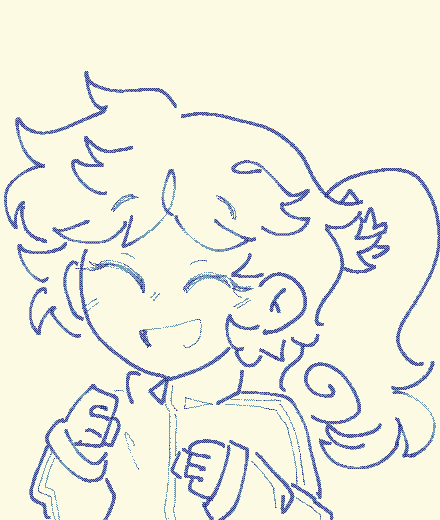
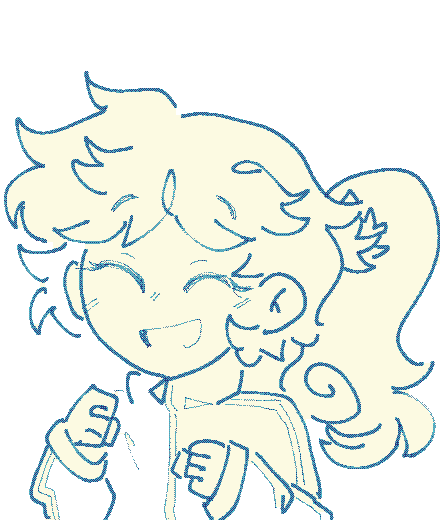
Caja de diálogo con textura, bustos que caen en otro dibujo del mismo personaje

diff --git a/js/motor/dialogo.js b/js/motor/dialogo.js
@@ -24,14 +24,18 @@ const Dialogo = {
     const p = PERSONAJES[id];
     if (!p || p.sinBusto || Motor.estadoEscena.cuadro) { Dialogo.ocultarBusto(); return; }
     const em = emocion || 'neutral';
-    let ruta = (p.bustos && p.bustos[em]) || `assets/img/bustos/${id}_${em}.png`;
     const b = Dialogo.el.busto;
     b.hidden = false;
     b.classList.toggle('derecha', p.lado === 'derecha' || p.lado === 'der'); // ver `lado` en personajes.js
-    let ok = await U.imagenExiste(ruta);
-    if (!ok && em !== 'neutral') { // si falta esa emoción, usa el busto neutral
-      const neutral = (p.bustos && p.bustos.neutral) || `assets/img/bustos/${id}_neutral.png`;
-      if (await U.imagenExiste(neutral)) { ruta = neutral; ok = true; }
+    // Mientras falten dibujos: si no está esa emoción se usa otra del mismo personaje,
+    // antes de caer al bloque de color. El orden de abajo es el de preferencia.
+    const dondeEsta = (e) => (p.bustos && p.bustos[e]) || `assets/img/bustos/${id}_${e}.png`;
+    const intentos = [em, 'neutral', p.bustoRespaldo, ...Object.keys(p.bustos || {}), 'feliz', 'seria', 'curioso'];
+    let ruta = dondeEsta(em), ok = false;
+    for (const e of intentos) {
+      if (!e) continue;
+      const r = dondeEsta(e);
+      if (await U.imagenExiste(r)) { ruta = r; ok = true; break; }
     }
     if (ok) { b.style.backgroundImage = `url("${ruta}")`; b.style.backgroundColor = 'transparent'; b.querySelector('.busto-etiqueta').textContent = ''; }
     else { b.style.backgroundImage = 'none'; b.style.backgroundColor = p.color || U.colorDe(id); b.querySelector('.busto-etiqueta').textContent = `${p.nombre} · ${em} (sin imagen)`; }

diff --git a/css/estilo.css b/css/estilo.css
@@ -66,7 +66,8 @@ html, body { margin: 0; height: 100%; background: var(--color-fondo); color: var
   background: var(--color-caja); border: 2px solid var(--color-borde); box-shadow: 0 0 0 2px var(--color-fondo); /* aro oscuro para que el borde blanco se vea sobre fondos claros */
   padding: 16px 22px; font-size: 19px; line-height: 1.45; }
 /* con CONFIG.imagenCaja: el dibujo reemplaza al rectángulo (sin borde, sin relleno) */
-.caja.con-imagen { background-color: transparent; border: 0; box-shadow: none; background-size: 100% 100%; background-repeat: no-repeat; }
+.caja.con-imagen, .opciones.con-imagen { background-color: transparent; border: 0; box-shadow: none; background-size: 100% 100%; background-repeat: no-repeat; }
+.opciones.con-imagen { padding: 14px 18px; }
 .caja .nombre { position: absolute; top: -18px; left: 16px; background: var(--color-caja); padding: 0 10px; font-size: 16px; font-weight: bold; }
 .caja .texto { white-space: pre-wrap; }
 .caja .flecha { position: absolute; right: 18px; bottom: 8px; font-size: 16px; animation: parpadeo 0.8s infinite; }

diff --git a/js/motor/main.js b/js/motor/main.js
@@ -3,11 +3,14 @@ window.addEventListener('DOMContentLoaded', () => {
   Celular.iniciar();
   if (CONFIG.estiloPixel) U.$('#juego').classList.add('pixel');
   // Caja de diálogo dibujada (CONFIG.imagenCaja): si existe, se usa el PNG en vez
-  // del rectángulo con borde. El texto sigue en el mismo sitio.
+  // del rectángulo con borde. El texto sigue en el mismo sitio. La lista de
+  // opciones usa el mismo dibujo, estirado, para que no desentonen.
   if (CONFIG.imagenCaja) {
-    const caja = U.$('#caja-dialogo');
-    caja.style.backgroundImage = `url("${CONFIG.imagenCaja}")`;
-    caja.classList.add('con-imagen');
+    for (const sel of ['#caja-dialogo', '#opciones']) {
+      const el = U.$(sel);
+      el.style.backgroundImage = `url("${CONFIG.imagenCaja}")`;
+      el.classList.add('con-imagen');
+    }
   }
   Chat.historial = Chat.historialInicial();
   window.addEventListener('keydown', (e) => {

diff --git a/js/datos/config.js b/js/datos/config.js
@@ -5,8 +5,8 @@ const CONFIG = {
   titulo: 'Killa',
   subtitulo: '',   // texto chico debajo del título (vacío = nada)
   fondoMenu: 'assets/img/fondo_menu.png',   // dibujo detrás del menú. null = solo color de fondo
-  imagenCaja: null,        // ej: 'assets/img/caja.png' para que la caja de diálogo sea un dibujo tuyo
-                           // en vez del rectángulo con borde. El PNG va de 660 x 150 (o el doble).
+  imagenCaja: 'assets/img/caja.png',  // dibujo de la caja de diálogo. null = rectángulo con borde
+                           // El PNG va de 660 x 150 (o el doble, se estira solo).
   tituloEnElFondo: true,   // true = el título ya está pintado en fondoMenu, así que no se escribe encima
   primerCapitulo: 'cap01',           // archivo de js/datos/guion/ con el que empieza la partida
 

diff --git a/js/datos/personajes.js b/js/datos/personajes.js
@@ -4,6 +4,9 @@
 //   flor (feliz): ¡Habla!
 // bustos: se buscan solos en assets/img/bustos/<id>_<emocion>.png
 //         (o pon rutas a mano en `bustos: { feliz: 'ruta.png' }`).
+//         Si todavía no dibujaste esa emoción, se usa otra del mismo personaje
+//         (primero `neutral`, o la que pongas en `bustoRespaldo: 'feliz'`).
+//         Si no hay ninguna, sale el bloque de color con el nombre.
 // lado: 'derecha' = el busto sale a la derecha de la pantalla (por defecto, izquierda).
 // tono: frecuencia del beep al hablar (más alto = voz más aguda).
 // beep: ruta a un archivo de audio si prefieres tu propio "beep".
